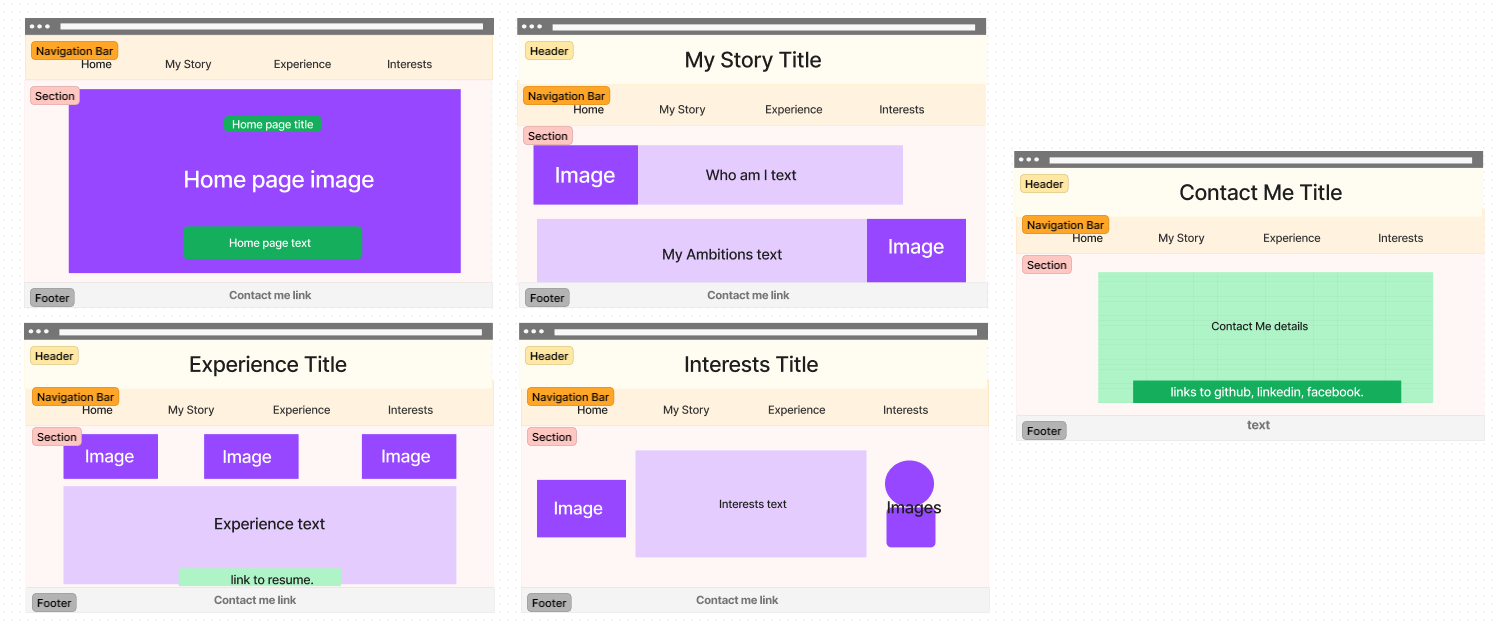
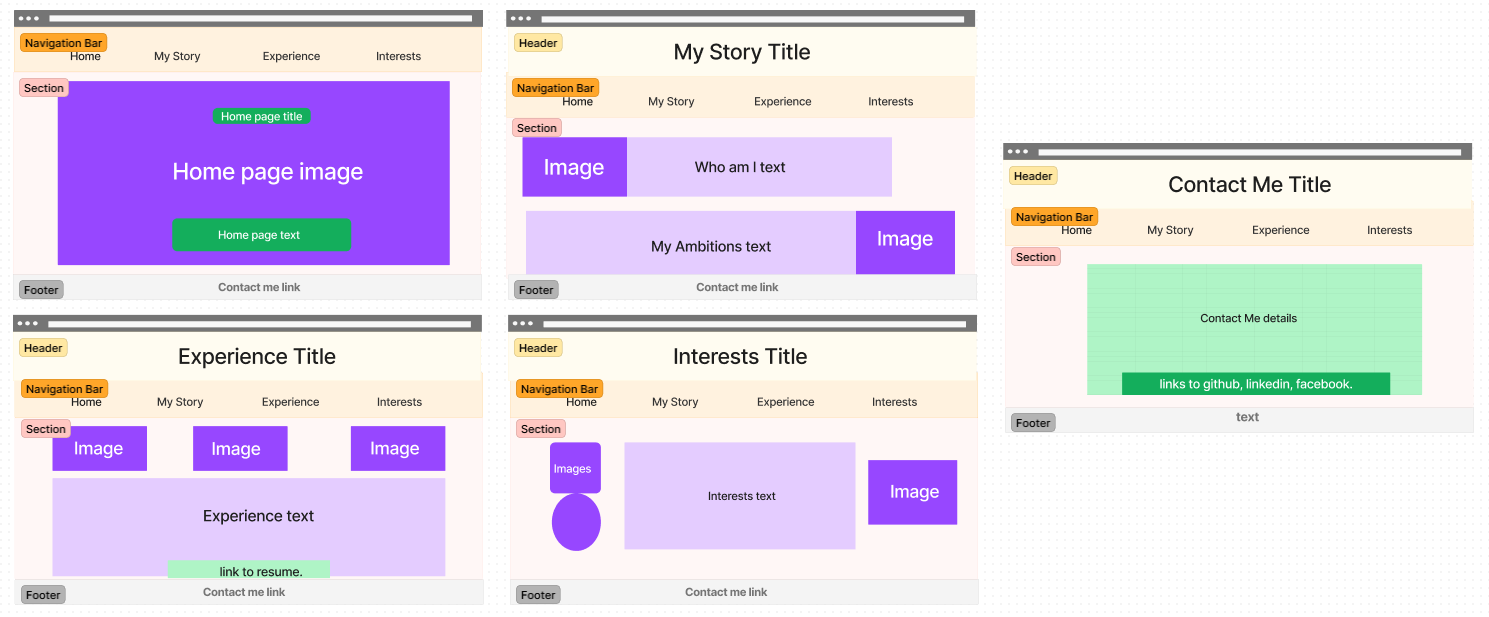
finished interests page

diff --git a/pages/interests.html b/pages/interests.html
@@ -11,12 +11,12 @@
         <h1>Interests</h1>
     </header>
     <nav>
-        <a href="../index.html">Home</a>|
+        <a href="../index.html" target="_blank">Home</a>|
         <a href="./mystory.html" target="_blank">My Story</a>|
         <a href="./experience.html" target="_blank">Experience</a>|
         <a href="#">Interests</a>
     </nav>
-    <section>
+    <section class="back-image">
         <div id="image1">
             <img src="../images/wsw_logo.png" alt="wanderers FC logo">
         </div>
@@ -26,7 +26,10 @@
         <div class="maintext">
             <article>
                 <h3>My Interests</h3>
-                <p>testing text</p>
+                <p>Over the last few years my career interest has been in the software programming and development area. I have  formerly retrained myself with a Certifcate IV in programming & development from TAFE and started a Diploma in full stack web development with Coder Academy.</p>
+                <p>There are a few private interests that i am particulary passionate about. The first is football (soccer), I still love to play the game for my local suburb and have played for around 30 years. As a supporter I follow the A leagues Western Sydney Wanderers and also the Tottenham Football Club in the English Premier League as my Grandparents are from the north of London.</p>
+                <p>My family and I also love to travel and to experience different cultures while also going skiing / snowboarding. We regularly go down to the NSW snowy mountains or over to the NZ mountains. </p>
+                <br>
             </article>
         </div>
         <div id="image3">

diff --git a/CSS/interests.css b/CSS/interests.css
@@ -49,36 +49,44 @@ nav a, footer a {
 }
 
 section {
-    margin-top: 2dvh;
+    margin-top: auto;
+    margin-bottom: auto;
     width: 100%;
     display: flex;
     flex-wrap: wrap;
     justify-content: center;
     align-items: center;
-   
-    gap: 4px;
-    
+    gap: 4px;  
 }
 
+.back-image {
+    background: url(../images/coding_PC_blurred.jpg);
+    height: 600px;
+    background-position: center;
+    background-repeat: no-repeat;
+    background-size: cover;
+    position: relative;
+    border-radius: 20px;
+}
 #image1 img{
     background-color: black;
     height: 120px;
     width: 120px;
     border-radius: 12px;
-    border: var(--chocolate) solid 4px;   
+    border: var(--mandarin) solid 4px;   
 }
 
 #image2 img{
     height: 120px;
     width: 100px;
     border-radius: 50%;
-    border: var(--chocolate) solid 4px;
+    border: var(--mandarin) solid 4px;
 }
 
 .maintext {
     background-color: var(--cream);
-    height: 400px;
-    width: 400px;
+    height: auto;
+    width: 500px;
     border-radius: 20px;
 }
 
@@ -89,7 +97,7 @@ h3, article p {
     height: 150px;
     width: 200px;
     border-radius: 12px;
-    border: var(--chocolate) solid 4px;
+    border: var(--mandarin) solid 4px;
 }
 footer {
     width: 100%;
